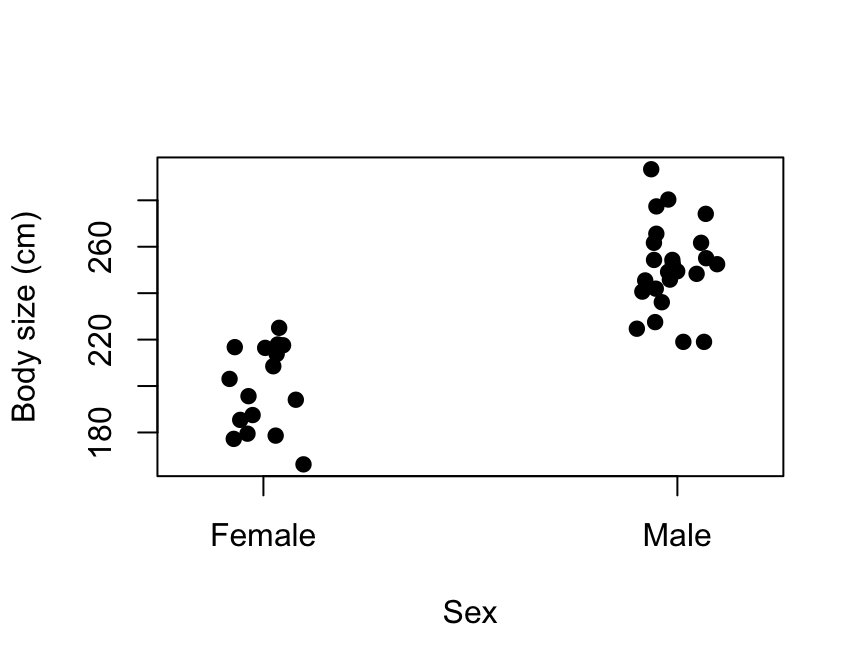
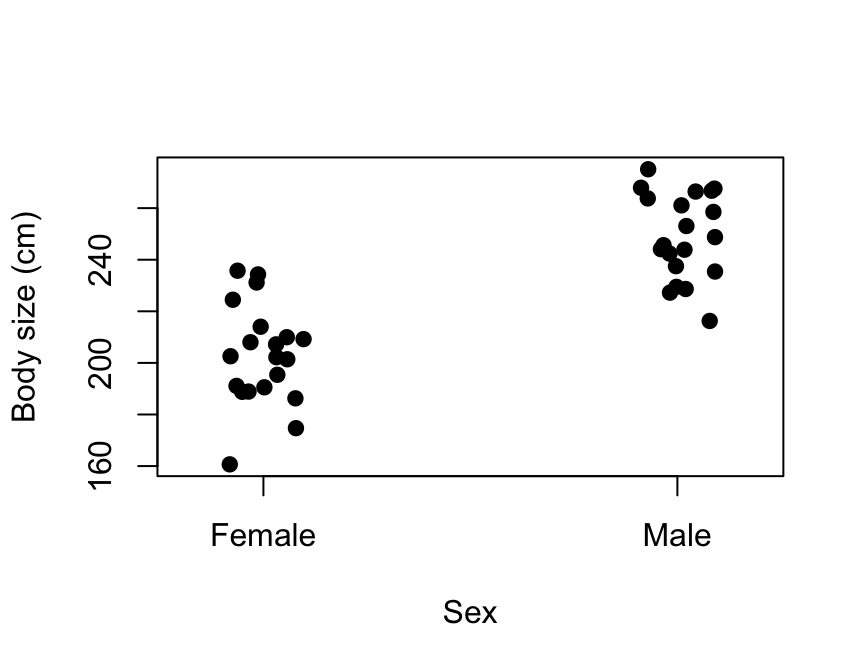
reknitting lecture 8

diff --git a/lecture_8.html b/lecture_8.html
@@ -673,7 +673,7 @@ function didn’t even measure for us… (what a shame!)</li>
 </ul>
 <p>Let’s go back to our original graph.</p>
 <pre class="r"><code># Plot
-stripchart(body_size ~ sex, data = datum, vertical = TRUE, method = &quot;jitter&quot;, 
+stripchart(Size ~ Sex, data = datum, vertical = TRUE, method = &quot;jitter&quot;, 
            pch = 19, xlab = &quot;Sex&quot;, ylab = &quot;Body size (cm)&quot;)</code></pre>
 <p><img src="lecture_8_files/figure-html/size-5-1.png" width="432" /></p>
 <p><strong>Q:</strong> how might we visualize <span
@@ -843,7 +843,10 @@ reporting results like we used for linear regression. Next class we will
 learn how to report our results when X-variable is categorical. And then
 we will extend the formula to accommodate situations for when we have
 more than two groups. And then we will keep moving on from there!</p>
-<pre class="r"><code># Save the data for future lectures, if needed
+<pre class="r"><code># Make sure Sex is a factor
+datum$Sex &lt;- factor(datum$Sex)
+
+# Save the data for future lectures, if needed
 write.csv(datum, &quot;lecture_8_seal_data.csv&quot;)</code></pre>
 <p><a href="lecture_9.html">–go to next lecture–</a></p>
 </div>

diff --git a/lecture_9.html b/lecture_9.html
@@ -500,6 +500,14 @@ head(datum)</code></pre>
 ## 38 38 Male 248.7618    1
 ## 39 39 Male 243.8807    1
 ## 40 40 Male 242.3906    1</code></pre>
+<pre class="r"><code>str(datum)</code></pre>
+<pre><code>## &#39;data.frame&#39;:    40 obs. of  4 variables:
+##  $ X   : int  1 2 3 4 5 6 7 8 9 10 ...
+##  $ Sex : chr  &quot;Female&quot; &quot;Female&quot; &quot;Female&quot; &quot;Female&quot; ...
+##  $ Size: num  189 195 231 201 203 ...
+##  $ Male: int  0 0 0 0 0 0 0 0 0 0 ...</code></pre>
+<pre class="r"><code># Scatterplot
+#plot(Size ~ Sex, data = datum)</code></pre>
 <p><a href="lecture_10.html">–go to next lecture–</a></p>
 </div>
 </div>
